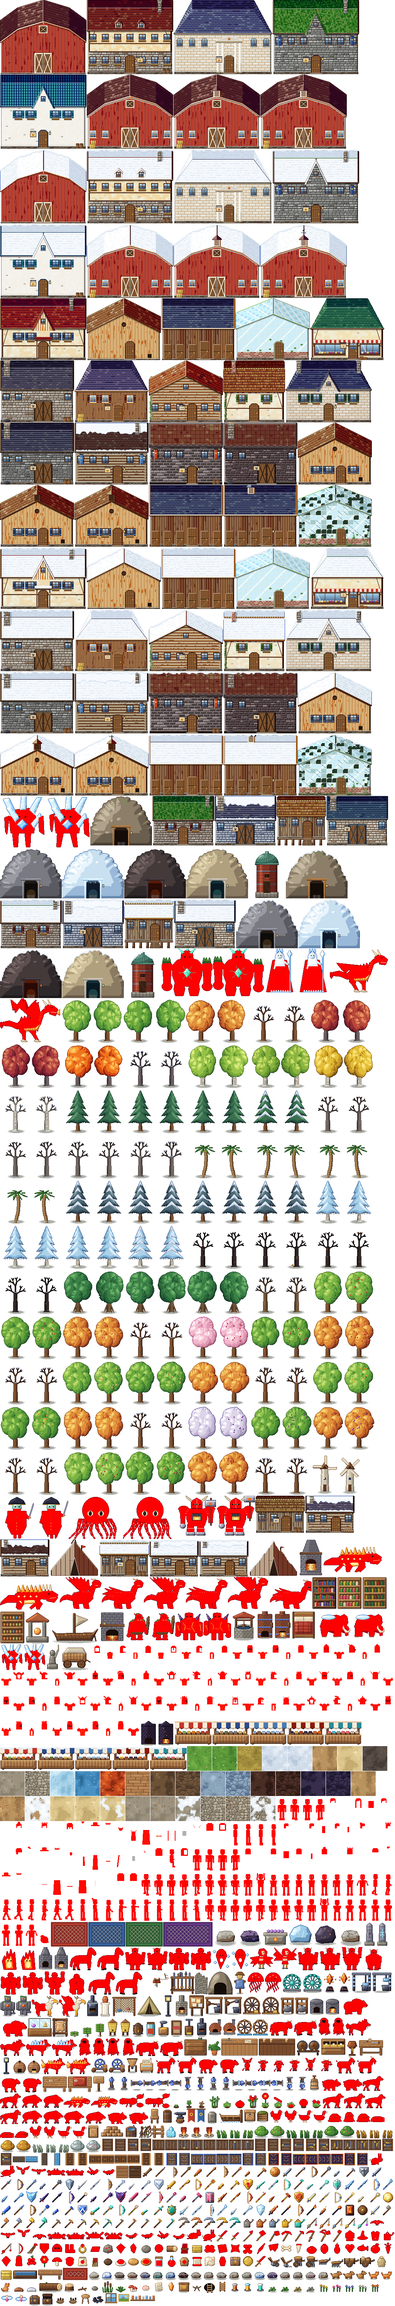
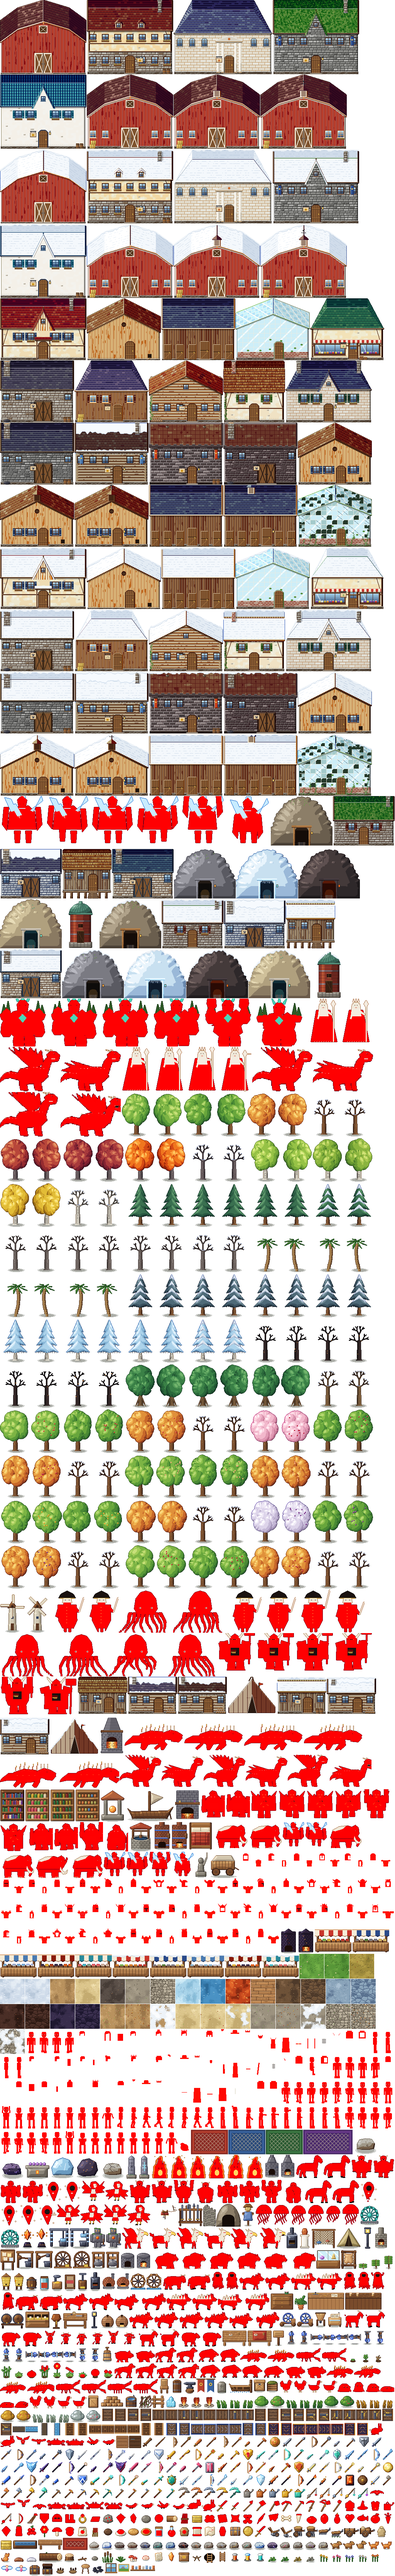
Hand-pixelled regional creatures and bosses with walk, wind-up and strike frames; fire elemental, ice crystals, the Stone Tyrant reworked

diff --git a/art/sprites/handdrawn.py b/art/sprites/handdrawn.py
@@ -5,13 +5,14 @@ Grid letters:  . empty
   1 2 3 4  body tones dark->light (ch 0, levels 0-3), placed by hand
   5 6 7 8  second-colour tones (ch 1, levels 0-3)
   E eye (swappable)  W white  N nose/claw black  T tooth  R red  O fire orange  Y fire yellow
+  G g pine greens  C crystal teal  I J ice light / ice shade
 Region letters are cel shaded flat (light on top edges, shadow on the bottom edges, base inside), like
 the characters; every hand-placed digit wins over that. A selective outline is added at the end.
 """
 from px import Canvas
 from sprites.creatures import C, EYE
 
-FIXED = {'E': EYE, 'W': '#f4ece0', 'N': '#1a1210', 'T': '#f0e8d8', 'R': '#d8342a', 'O': '#ff8a2a', 'Y': '#ffd860'}
+FIXED = {'E': EYE, 'W': '#f4ece0', 'N': '#1a1210', 'T': '#f0e8d8', 'R': '#d8342a', 'O': '#ff8a2a', 'Y': '#ffd860', 'G': '#2e5a26', 'g': '#5a8a3a', 'C': '#4ad8b8', 'I': '#c8ecff', 'J': '#7ab8e0'}
 
 
 def grid_sprite(rows, W, H):
@@ -800,3 +801,345 @@ def rabbit_f(step):
 
 for _n, _f in (('horse', horse_f), ('cow', cow_f), ('goat', goat_f), ('sheep', sheep_f), ('pig', pig_f), ('chicken', chicken_f), ('duck', duck_f), ('rabbit', rabbit_f)):
     register(_n, [(lambda f=_f, k=k: f(k)) for k in range(4)], prefix='an_')
+
+
+# ======================= regional creatures and bosses =======================
+def S(pts, k=1, dx=0, dy=0):
+    """Scale hand-picked points (designed small) by k and shift them: crisp at any size."""
+    return [(round(x * k + dx), round(y * k + dy)) for x, y in pts]
+
+
+def SD(det, k=1, dx=0, dy=0):
+    return [(round(y * k + dy), round(x * k + dx), px) for y, x, px in det]
+
+
+POSE = {'walk': (0, 0), 'wind': (-2, 2), 'strike': (3, 0)}
+
+
+def beast(W, H, k, step, pose, legs, back, top, front, det, wt=1, wb=1, hoof='N', hh=2, oy=0):
+    """A four-legged creature from designed points (scaled by k): pose moves the body, legs stay planted."""
+    dx, dy = POSE[pose]
+    dx, dy = dx * k, dy * k
+    legs_k = [(hx * k + dx, hy * k + dy + oy, fx * k + dx * .3, a * k * wt, b * k * wb, kn * k) for hx, hy, fx, a, b, kn in legs]
+    tr = lambda shapes: [(S(p, k, dx, dy + oy), ch) for p, ch in shapes]
+    st = step if pose == 'walk' else 1
+    return quad(W, H, st, tr(back), tr(front), legs_k, tr(top), SD(det, k, dx, dy + oy), hoof=hoof, hh=hh)
+
+
+# canine (designed in a 54x40 frame): wargs, the frost warg, the fire hound
+def canine(W, H, k, step, pose, extra=None, jaw_open=False):
+    legs = [(14, 26, 12, 4, 2, -2), (36, 26, 37, 3.5, 2, 1), (12, 25, 11, 5, 2, -2), (34, 26, 34, 4, 2, 1)]
+    tail = [([(10, 18), (4, 14), (1, 18), (3, 26), (9, 24)], 'm')]
+    body = [([(9, 18), (16, 15), (30, 16), (40, 14), (44, 20), (41, 28), (33, 30), (20, 26), (12, 27)], 'b'),
+            ([(26, 15), (30, 9), (34, 13), (37, 7), (40, 12), (44, 15), (43, 27), (36, 26)], 'm'),
+            ([(38, 12), (44, 9), (48, 13), (53, 17), (52, 20), (46, 21), (40, 19)], 'b')]
+    ears = [([(40, 11), (41, 3), (44, 10)], 'b'), ([(43, 10), (45, 3), (46, 10)], 'b')]
+    det = [(13, 44, 'WE'), (17, 53, 'N'), (20, 47, '1111'), (21, 48, 'T'), (21, 50, 'T'), (16, 34, '44'), (17, 35, '4'), (19, 20, '2'), (20, 21, '2'), (19, 28, '2'), (20, 29, '2')]
+    if jaw_open:
+        det += [(20, 46, '1NNNNN1'), (21, 46, 'TbTbTb'), (22, 47, 'bbbb')]
+    if extra:
+        b2, d2 = extra
+        body += b2; det += d2
+    return beast(W, H, k, step, pose, legs, tail, body, ears, det, oy=H - 40 * k)
+
+
+def warg_f(step, pose='walk', ice=False):
+    ex = None
+    if ice:
+        ex = ([([(x, 17), (x + 3, 7 - (x // 6) % 2 * 3), (x + 6, 17)], 'T') for x in range(12, 38, 6)], [])
+    return canine(66, 48, 1.2, step, pose, ex, pose == 'strike')
+
+
+def hound_f(step, pose='walk'):
+    fl = step % 2
+    ex = ([([(x, 17), (x + 3, 17 - (8 + (i * 7 + fl * 3 * (i % 2)) % 7)), (x + 6, 17)], 'b') for i, x in enumerate(range(14, 42, 5))],
+          [(17 - (8 + (i * 7 + fl * 3 * (i % 2)) % 7) + 2, x + 3, 'Y') for i, x in enumerate(range(14, 42, 5))] + [(15, x, 'O') for x in range(16, 42, 5)] + [(13, 44, 'YY')])
+    return canine(64, 46, 1.15, step, pose, ex, pose == 'strike')
+
+
+def bear_f(step, pose='walk'):
+    legs = [(24, 34, 23, 9, 7, -1), (50, 34, 51, 8, 7, 1), (19, 34, 19, 10, 8, 0), (46, 34, 46, 10, 8, 0)]
+    body = [([(10, 30), (16, 20), (30, 17), (42, 10), (54, 14), (58, 26), (54, 40), (40, 44), (16, 42)], 'b'), ([(30, 14), (40, 10), (52, 14), (52, 24), (34, 22)], 'm')]
+    head = [([(52, 20), (58, 16), (64, 19), (69, 26), (66, 31), (57, 31), (52, 28)], 'b'), ([(53, 16), (55, 13), (58, 16)], 'b'), ([(59, 16), (61, 13), (63, 17)], 'b')]
+    det = [(21, 60, 'WE'), (26, 67, 'NN'), (30, 60, 'TTTTT'), (20, 22, '44'), (19, 28, '444'), (24, 16, '2'), (25, 17, '2'), (30, 26, '2'), (31, 27, '2'), (34, 36, '2'), (35, 37, '2')]
+    if pose == 'strike':
+        det += [(29, 58, '1NNNNNN'), (30, 59, 'TbTbT')]
+    return beast(70, 52, 1, step, pose, legs, [], body + head, [], det, hoof='T', hh=1)
+
+
+def mammoth_f(step, pose='walk'):
+    legs = [(24, 44, 24, 10, 9, 0), (58, 44, 58, 10, 9, 0), (18, 44, 18, 11, 10, 0), (52, 44, 52, 11, 10, 0)]
+    body = [([(8, 40), (14, 22), (34, 12), (54, 10), (70, 16), (76, 34), (72, 50), (16, 52)], 'b'),
+            ([(12, 22), (30, 12), (48, 10), (40, 18), (20, 24)], 'T')]   # snow on its back
+    trunk_up = pose == 'wind'
+    head = [([(62, 14), (72, 8), (80, 14), (82, 30), (76, 40), (66, 36)], 'b'), ([(60, 18), (66, 16), (68, 32), (62, 34)], 'm')]
+    trunk = ([(76, 34), (84, 28), (88, 16), (86, 12), (82, 22), (74, 28)], 'b') if trunk_up else ([(76, 34), (84, 44), (82, 58), (78, 64), (75, 62), (77, 54), (76, 44), (70, 38)], 'b')
+    tusk = ([(70, 36), (74, 46), (82, 52), (88, 44), (86, 54), (76, 56), (68, 44)], 'T')
+    det = [(22, 72, 'WE'), (41, 12, 'mmmmmmmmmmmmmmmmmmmmmmmmmmmmmmmmmmmmmmmmmmmmmmmmmmmmmmmm'), (42, 13, 'm.m.m.m.m.m.m.m.m.m.m.m.m.m.m.m.m.m.m.m.m.m.m.m.m.m.m.m'),
+           (43, 14, 'm..m..m..m..m..m..m..m..m..m..m..m..m..m..m..m..m..m..m'), (24, 30, '44'), (22, 40, '444'), (30, 50, '2'), (31, 51, '2')]
+    return beast(88, 68, 1, step, pose, legs, [], body + head + [trunk], [tusk], det, hoof='T', hh=1)
+
+
+def griffin_f(step, pose='walk'):
+    legs = [(16, 36, 15, 6, 3, -2), (44, 36, 45, 3, 2, 1), (20, 36, 20, 7, 4, -2), (46, 36, 46, 3.5, 2, 1)]
+    wing_up = step % 2 == 0 or pose == 'wind'
+    wing = ([(22, 28), (6, 2), (16, 6), (24, 3), (32, 8), (42, 26)], 'm') if wing_up else ([(22, 28), (2, 22), (12, 18), (14, 30), (26, 24), (42, 28)], 'm')
+    body = [([(10, 30), (16, 24), (30, 23), (40, 24), (52, 26), (52, 38), (38, 42), (18, 41), (10, 36)], 'b'), ([(38, 22), (48, 20), (54, 28), (50, 40), (40, 38)], 'T')]
+    head = [([(44, 22), (46, 12), (52, 8), (58, 10), (60, 18), (54, 24)], 'T'), ([(58, 12), (66, 14), (69, 19), (67, 23), (64, 19), (58, 19)], 'Y'), ([(46, 12), (40, 4), (48, 10), (47, 2), (51, 9)], 'T')]
+    tail = [([(12, 28), (4, 20), (2, 16), (6, 16), (8, 22), (13, 26)], 'b')]
+    det = [(13, 54, 'WE'), (21, 66, 'N'), (14, 51, '111111'), (26, 20, '44'), (25, 26, '444'), (32, 30, '2'), (33, 31, '2')]
+    if pose == 'strike':
+        det += [(20, 59, '1NNNN'), (21, 59, 'NNN')]
+    return beast(70, 56, 1, step, pose, legs, tail, body + head, [wing], det, hoof='N', hh=1)
+
+
+def lizard(W, H, k, step, pose, crown=False):
+    """Salamanders and the Ash Mother (designed 70x40, scaled by k): sprawled legs, a ridge of flame."""
+    dx, dy = [(0, 0), (-2, 1), (3, 0)][['walk', 'wind', 'strike'].index(pose)]
+    st = [3, -3, 3, -3][step] if pose == 'walk' else 0
+    shp = []
+    for x, d in ((22, 1), (44, -1)):
+        shp.append(([(x, 26), (x + 4, 26), (x + 2 + st * d, 33), (x - 4 + st * d, 38), (x - 6 + st * d, 36), (x - 2, 30)], 'd'))
+    shp.append(([(22, 22), (10, 22), (2, 28 + st // 2), (0, 32 + st // 2), (8, 30), (22, 30)], 'b'))
+    shp.append(([(18 + dx, 20 + dy), (30 + dx, 16 + dy), (44 + dx, 17 + dy), (50 + dx, 22 + dy), (46 + dx, 30 + dy), (24 + dx, 31 + dy), (16, 27)], 'b'))
+    shp.append(([(22 + dx, 28 + dy), (44 + dx, 27 + dy), (42 + dx, 31 + dy), (26 + dx, 32 + dy)], 'm'))
+    for x, d in ((26, -1), (42, 1)):
+        shp.append(([(x - 2, 26), (x + 3, 26), (x + 5 + st * d, 32), (x + 1 + st * d, 38), (x - 2 + st * d, 38), (x, 31)], 'b'))
+    open_ = pose == 'strike'
+    shp.append(([(46 + dx, 18 + dy), (54 + dx, 15 + dy), (62 + dx, 17 + dy), (68 + dx, 21 + dy), (67 + dx, 25 + dy), (58 + dx, 27 + dy), (48 + dx, 26 + dy)], 'b'))
+    shp.append(([(56 + dx, 25 + dy), (68 + dx, 24 + dy + (4 if open_ else 0)), (64 + dx, 29 + dy + (4 if open_ else 0)), (55 + dx, 28 + dy)], 'b'))
+    g = polygrid(W, H, [(S(p, k), ch) for p, ch in shp])
+    det = [(19 + dy, 57 + dx, 'EE')]
+    for i, x in enumerate(range(20, 48, 5)):
+        h = 6 + (i + step) % 3 * 2
+        for r in range(h):
+            det.append((17 + dy - r, x + dx + (1 if r > h // 2 else 0), 'O' if r < h - 2 else 'Y'))
+    det += [(23 + dy, x + dx, 'Y') for x in range(22, 46, 7)]
+    if crown:
+        det += [(16 + dy - r, x + dx, 'T') for x in (50, 54, 58) for r in range(7)]
+    det = SD(det, k)
+    return grid_sprite(with_detail(g, det, W), W, H)
+
+
+def lobster_f(step, pose='walk'):
+    o = 2 if pose == 'strike' else -2 if pose == 'wind' else 0
+    g = polygrid(66, 40, [([(4, 18), (12, 14), (12, 30), (4, 28)], 'm'), ([(10, 16), (30, 14), (46, 16), (48, 26), (30, 30), (10, 28)], 'b'),
+                          ([(44, 18), (54, 10 - o), (62, 8 - o), (64, 12 - o), (56, 16 - o), (48, 22)], 'b'), ([(44, 24), (54, 32 + o), (62, 34 + o), (64, 30 + o), (56, 28 + o), (48, 26)], 'b'),
+                          ([(60, 6 - o), (66, 4 - o), (64, 10 - o)], 'm'), ([(60, 36 + o), (66, 38 + o), (64, 32 + o)], 'm')])
+    det = [(18, 46, 'WE')] + [(r, c, '1') for c in (16, 22, 28, 34) for r in range(15, 29)] + [(15, 20, '444'), (16, 30, '44')]
+    for i in range(4):
+        x = 20 + i * 6; s = (2 if (i + step) % 2 else -2) if pose == 'walk' else 0
+        det += [(29 + r, x + s * r // 8, 'm') for r in range(9)]
+    det += [(17 - r, 47 + r * 2, 'm') for r in range(8)]
+    return grid_sprite(with_detail(g, det, 66), 66, 40)
+
+
+def jelly_f(step, pose='walk'):
+    pulse = [0, 1, 2, 1][step] if pose == 'walk' else 3 if pose == 'wind' else -1
+    bell = {(x, y) for x in range(2, 42) for y in range(2 + pulse, 26) if ((x + .5 - 22) / (20 - pulse)) ** 2 + ((y - 24) / (21 - pulse)) ** 2 <= 1}
+    rows = [['.'] * 44 for _ in range(58)]
+    for x, y in bell:
+        rows[y][x] = 'b'
+    for i, x in enumerate(range(8, 38, 5)):
+        for y in range(25, 54 - (i % 3) * 4 - (6 if pose == 'wind' else 0)):
+            xx = x + round(__import__('math').sin(y * .3 + i + step * 1.5) * 2) + (2 if pose == 'strike' else 0)
+            if 0 <= xx < 44:
+                rows[y][xx] = 'm' if y % 4 else '6'
+    g = [''.join(r) for r in rows]
+    det = [(10 + pulse, 13, '44'), (9 + pulse, 15, '44'), (12 + pulse, 12, '4'), (17, 17, 'E'), (17, 26, 'E'), (18, 17, 'E'), (18, 26, 'E'), (20, 20, '2222')]
+    return grid_sprite(with_detail(g, det, 44), 44, 58)
+
+
+def wisp_f(step, pose='walk'):
+    import math
+    sway = [2, 0, -2, 0][step]
+    rows = [['.'] * 48 for _ in range(60)]
+    for y in range(4, 58):
+        for x in range(4, 44):
+            head = y < 24 and ((x + .5 - 24) / 13) ** 2 + ((y - 22) / 17) ** 2 <= 1
+            tail = 24 <= y < 56 and abs(x + .5 - 24 - sway * (y - 24) / 30) < 13 - (y - 24) * .4 and ((x // 4 + y // 6 + step) % 5 or y < 44)
+            if head or tail:
+                rows[y][x] = 'b'
+    g = [''.join(r) for r in rows]
+    det = [(y, x, 'N') for y in range(14, 28) for x in range(17, 31) if ((x - 24) / 7) ** 2 + ((y - 21) / 7) ** 2 <= 1]
+    det += [(20, 20, 'EE'), (20, 26, 'EE'), (21, 20, 'E'), (21, 27, 'E'), (33, 22, 'WWW'), (34, 21, 'WWWWW'), (35, 22, 'WWW')]
+    for i, (x, y) in enumerate(((6, 14), (42, 22), (8, 42), (40, 48))):
+        y += (2 if (i + step) % 2 else -2) - (6 if pose == 'wind' else 0)
+        det += [(y - 1, x, 'W'), (y, x - 1, 'WWW'), (y + 1, x, 'W')]
+    if pose == 'strike':
+        det += [(28, 34, 'WWWWWWWWWWWWW'), (29, 36, 'WWWWWWWWWWW')]
+    return grid_sprite(with_detail(g, det, 48), 48, 60)
+
+
+def upright(W, H, k, step, pose, P):
+    """Something that stands upright (designed in a 56x60 frame, scaled by k): stone, crystal, troll, giants.
+    P: dict of shapes for 'legs', 'torso', 'arm' (left, mirrored), 'head', plus 'det' and optional 'weapon'."""
+    sw = [0, 2, 0, -2][step] if pose == 'walk' else 0
+    lift = [0, 2, 0, 2][step] if pose == 'walk' else 0
+    ay = {'walk': 0, 'wind': -16, 'strike': 10}[pose]; by = {'walk': 0, 'wind': 0, 'strike': 3}[pose]
+    shapes = []
+    for i, x in enumerate((17, 31)):
+        up = lift if (i == 0) == (step == 1) and step in (1, 3) else 0
+        shapes.append((S(P['leg'], k, x * k, (44 - up) * k), 'b' if i else 'd'))
+    shapes += [(S(p, k, 8 * k, (16 + by) * k), ch) for p, ch in P['torso']]
+    for side, x in ((-1, 3), (1, 45)):
+        pts = P['arm'] if side < 0 else [(8 - px, py) for px, py in P['arm']]
+        shapes.append((S(pts, k, x * k + (6 if pose == 'strike' else 0) * k * -side, (14 + ay + sw * side) * k), 'b'))
+    shapes += [(S(p, k, 20 * k, (3 + by) * k), ch) for p, ch in P['head']]
+    if P.get('weapon'):
+        shapes += [(S(p, k, 0, (ay if pose != 'walk' else sw) * k), ch) for p, ch in P['weapon']]
+    g = polygrid(W, H, shapes)
+    return grid_sprite(with_detail(g, SD(P['det'], k, 0, by * k), W), W, H)
+
+
+BASALT = {'leg': [(0, 0), (10, 0), (11, 15), (-1, 15)], 'arm': [(1, 0), (9, 0), (10, 30), (0, 30)],
+          'torso': [([(4, 0), (8, -6), (12, 0), (16, -4), (20, 0), (24, -6), (28, 0), (32, -4), (36, 0), (40, 2), (38, 28), (2, 28), (0, 2)], 'b'),
+                    ([(-2, 2), (-6, -12), (6, 0)], 'm'), ([(42, 2), (46, -12), (34, 0)], 'm')],
+          'head': [([(0, 2), (8, -2), (16, 2), (16, 14), (0, 14)], 'b')],
+          'det': [(24, 30, 'EEEE'), (25, 27, 'E'), (26, 32, 'EE'), (28, 23, 'O'), (29, 22, 'O'), (30, 21, 'OO'), (31, 34, 'O'), (32, 35, 'O'), (33, 36, 'OO'), (36, 26, 'OOOO'),
+                  (19, 16, '1'), (19, 24, '1'), (19, 32, '1'), (19, 40, '1'), (11, 25, 'YY'), (11, 30, 'YY'), (16, 26, 'OOOOO')]}
+SHARD = {'leg': [(1, 0), (9, 0), (8, 15), (2, 15)], 'arm': [(2, 0), (8, 0), (6, 30), (0, 22)],
+         'torso': [([(4, 4), (12, -2), (28, -4), (36, 4), (38, 26), (2, 26)], 'b'), ([(6, 4), (-2, -14), (6, -12), (12, 2)], 'I'), ([(34, 4), (44, -16), (46, -10), (30, 2)], 'I'),
+                   ([(16, 0), (18, -18), (24, -18), (24, 0)], 'I'), ([(14, 10), (6, -4), (12, -6), (20, 8)], 'I')],
+         'head': [([(2, 2), (8, -4), (14, 2), (12, 12), (4, 12)], 'b')],
+         'det': [(24, 25, 'W'), (25, 24, 'WWW'), (26, 23, 'WWWWW'), (27, 24, 'WWW'), (28, 25, 'W'), (10, 25, 'E'), (10, 30, 'E'), (6, 22, 'W'), (2, 30, 'W'), (12, 14, 'W')]}
+TROLL = {'leg': [(0, 0), (10, 0), (12, 12), (12, 16), (-2, 16), (0, 10)], 'arm': [(2, 0), (8, 0), (10, 30), (12, 34), (2, 36), (0, 30)],
+         'torso': [([(6, 2), (18, -4), (34, 0), (40, 12), (40, 26), (30, 30), (8, 30), (0, 20)], 'b'), ([(10, 14), (30, 14), (32, 28), (8, 28)], 'm'), ([(6, 26), (36, 26), (34, 32), (8, 32)], 'd')],
+         'head': [([(0, 6), (6, 0), (14, 2), (17, 8), (14, 16), (4, 16)], 'b'), ([(12, 7), (18, 10), (16, 14), (12, 12)], 'b')],
+         'weapon': [([(48, 58), (51, 16), (56, 10), (58, 18), (53, 58)], 'm')],
+         'det': [(8, 23, 'E'), (8, 30, 'E'), (6, 22, '11111111111'), (17, 23, 'T'), (17, 31, 'T'), (16, 23, 'T'), (16, 31, 'T'), (22, 14, 'mm'), (21, 16, 'mm'), (20, 40, 'mm'),
+                 (24, 52, 'T'), (30, 53, 'T'), (18, 54, 'T')]}
+GIANT_ROCK = {'leg': [(0, 2), (6, 0), (12, 2), (13, 10), (12, 16), (0, 16), (-1, 9)],
+              'arm': [(0, 2), (5, -2), (10, 1), (11, 12), (8, 15), (11, 20), (12, 28), (9, 33), (1, 33), (-2, 28), (-1, 18), (1, 14), (-1, 8)],
+              'torso': [([(2, 6), (8, 0), (18, -2), (24, 2), (30, -2), (38, 4), (40, 14), (36, 18), (4, 18), (0, 14)], 'b'),
+                        ([(4, 17), (20, 16), (36, 17), (38, 26), (30, 31), (10, 31), (2, 25)], 'b'),
+                        ([(-8, 4), (-2, -2), (6, 2), (4, 10), (-6, 10)], 'm'), ([(48, 4), (42, -2), (34, 2), (36, 10), (46, 10)], 'm'),
+                        ([(-6, 2), (-3, -10), (0, 2)], 'G'), ([(-1, 1), (2, -14), (5, 1)], 'G'), ([(36, 1), (39, -14), (42, 1)], 'G'), ([(41, 2), (44, -9), (47, 2)], 'G'),
+                        ([(15, 8), (20, 3), (25, 8), (20, 14)], 'C')],
+              'head': [([(1, 4), (5, -1), (11, -1), (15, 4), (14, 13), (8, 15), (2, 13)], 'b'),
+                       ([(1, 1), (-2, -8), (4, 0)], 'C'), ([(6, -1), (8, -10), (10, -1)], 'C'), ([(12, 0), (18, -8), (15, 1)], 'C')],
+              'det': [(8, 24, 'EE'), (8, 31, 'EE'), (12, 25, '111111'), (19, 26, 'II'), (20, 27, 'I'), (33, 8, '1111111111111111111111111111111111'),
+                      (17, 4, 'g'), (14, 6, 'g'), (11, 7, 'g'), (17, 49, 'g'), (14, 50, 'g'), (11, 51, 'g'), (24, 14, '2'), (25, 15, '2'), (26, 16, '2'), (40, 36, '2'), (41, 37, '2'),
+                      (22, 20, '44'), (21, 22, '444'), (36, 40, '44')]}
+FORGE = {'leg': [(0, 0), (11, 0), (12, 13), (14, 16), (-2, 16), (-1, 13)], 'arm': [(1, 0), (9, 0), (10, 28), (0, 28)],
+         'torso': [([(0, 2), (40, 2), (38, 22), (34, 30), (6, 30), (2, 22)], 'b'), ([(-6, 0), (8, -4), (10, 8), (-4, 8)], 'm'), ([(46, 0), (32, -4), (30, 8), (44, 8)], 'm'),
+                   ([(13, 8), (27, 8), (27, 20), (13, 20)], 'N')],
+         'head': [([(0, 4), (8, -2), (16, 4), (16, 16), (0, 16)], 'm'), ([(0, 6), (-6, -2), (-7, -6), (-2, -1), (2, 4)], 'T'), ([(16, 6), (22, -2), (23, -6), (18, -1), (14, 4)], 'T')],
+         'weapon': [([(50, 50), (51, 4), (53, 4), (52, 50)], 'm'), ([(44, -6), (60, -6), (60, 4), (44, 4)], 'b')],
+         'det': [(10, 21, 'NNNNNNNNNNNNNN'), (10, 23, 'OO'), (10, 30, 'OO'), (30, 22, 'OOOOOOOOOOOOO'), (31, 22, 'YYYYYYYYYYYY'), (32, 24, 'OOOOOOOOO'),
+                 (27, 22, '1.1.1.1.1.1.1'), (28, 22, '1.1.1.1.1.1.1'), (29, 22, '1.1.1.1.1.1.1'), (-4, 50, 'OO')]}
+
+
+def queen_f(step, pose='walk'):
+    sway = [2, 0, -2, 0][step] if pose == 'walk' else 0
+    up = {'walk': 0, 'wind': -8, 'strike': 4}[pose]
+    g = polygrid(84, 116, [([(22, 30), (58, 30), (74 + sway, 112), (6 + sway, 112)], 'm'), ([(28, 44), (52, 44), (66, 112), (14, 112)], 'b'),
+                           ([(30, 28), (50, 28), (50, 46), (30, 46)], 'b'), ([(30, 30), (24, 52), (28, 54), (34, 34)], 'T'),
+                           ([(50, 30), (64, 40 + up), (62, 44 + up), (48, 36)], 'T'),
+                           ([(65, 112 + up), (65, 18 + up), (68, 18 + up), (68, 112 + up)], 'T'),
+                           ([(66, 4 + up), (72, 14 + up), (66, 24 + up), (60, 14 + up)], 'W'),
+                           ([(30, 14), (50, 14), (54, 46), (26, 46)], 'W'), ([(33, 10), (47, 10), (48, 24), (40, 28), (32, 24)], 'T'),
+                           ([(32, 10), (33, 0), (36, 9)], 'W'), ([(38, 9), (40, -2), (42, 9)], 'W'), ([(44, 9), (47, 0), (48, 10)], 'W')])
+    det = [(17, 36, 'EE'), (17, 42, 'EE'), (23, 38, 'RRRR')] + [(112 - r, x + r, 'W') for x in range(16, 66, 6) for r in range(3)]
+    if pose == 'strike':
+        det += [(14 + up, 72 + i * 2, 'WW') for i in range(5)]
+    return grid_sprite(with_detail(g, det, 84), 84, 116)
+
+
+def captain_f(step, pose='walk'):
+    sway = [3, 0, -3, 0][step] if pose == 'walk' else 0
+    up = {'walk': 0, 'wind': -10, 'strike': 6}[pose]
+    rows = [['.'] * 88 for _ in range(112)]
+    for y in range(40, 110):
+        for x in range(8, 80):
+            if abs(x + .5 - 44 - sway * (y - 40) / 70) < 24 - max(0, y - 80) * .5 and (y < 96 or (x // 6 + step) % 2 == 0 or y < 100):
+                rows[y][x] = 'b'
+    g = polygrid(88, 112, [([(22, 42), (14, 70), (20, 72), (28, 46)], 'b'), ([(64, 42), (76, 56 + up), (72, 60 + up), (60, 48)], 'b'),
+                           ([(74, 58 + up), (86, 20 + up * 2), (88, 22 + up * 2), (76, 60 + up)], 'W'),
+                           ([(34, 22), (54, 22), (56, 34), (50, 42), (38, 42), (32, 34)], 'T'), ([(34, 34), (54, 34), (50, 52), (44, 56), (38, 52)], 'm'),
+                           ([(22, 22), (66, 22), (60, 12), (44, 4), (28, 12)], 'N')])
+    g = overlay([''.join(r) for r in rows], g)
+    det = [(27, 38, 'EEE'), (27, 48, 'EEE'), (22, 24, 'YYYYYYYYYYYYYYYYYYYYYYYYYYYYYYYYYYYYYYYY'), (60, 24, '1111111111111111111111111111111111111111')] + [(y, 42, 'YY') for y in range(46, 90, 8)]
+    return grid_sprite(with_detail(g, det, 88), 88, 112)
+
+
+def kraken_f(step, pose='walk'):
+    import math
+    rows = [['.'] * 140 for _ in range(112)]
+    for i in range(8):
+        x0 = 30 + i * 11
+        lift = 20 if pose == 'wind' and i % 2 else 0
+        for kk in range(14):
+            t = kk / 13
+            x = x0 + math.sin(t * 4 + i + step * 1.2) * 10 * t + (i - 3.5) * 6 * t + (14 * t if pose == 'strike' else 0)
+            y = 60 + t * (50 - lift)
+            w = 4 - round(3 * t)
+            for d in range(-w, w + 1):
+                for yy in range(int(y), int(y) + 4):
+                    if 0 <= int(x + d) < 140 and yy < 112:
+                        rows[yy][int(x + d)] = 'm'
+    g = [''.join(r) for r in rows]
+    g = overlay(g, polygrid(140, 112, [([(40, 50), (44, 24), (56, 8), (70, 4), (84, 8), (96, 24), (100, 50), (92, 64), (48, 64)], 'b')]))
+    det = [(46, 54, 'WWWW'), (47, 53, 'WEEW'), (48, 53, 'WEEW'), (49, 54, 'WWWW'), (46, 84, 'WWWW'), (47, 83, 'WEEW'), (48, 83, 'WEEW'), (49, 84, 'WWWW'),
+           (20, 52, '44'), (14, 62, '444'), (12, 70, '44'), (30, 60, '2'), (31, 61, '2'), (28, 84, '2'), (29, 85, '2')]
+    return grid_sprite(with_detail(g, det, 140), 140, 112)
+
+
+def harpy_f(step, pose='walk'):
+    up = step % 2 == 0 if pose == 'walk' else pose == 'wind'
+    lw = [(24, 24), (2, 2), (8, 12), (0, 20), (8, 26), (2, 34), (26, 34)] if up else [(24, 24), (0, 28), (8, 34), (2, 42), (12, 42), (8, 50), (26, 36)]
+    rw = [(36, 24), (58, 4), (52, 14), (60, 20), (52, 26), (58, 32), (36, 34)] if up else [(36, 24), (60, 28), (52, 34), (58, 42), (48, 42), (52, 50), (34, 36)]
+    dy = 2 if pose == 'strike' else 0
+    g = polygrid(60, 60, [(lw, 'm'), ([(24, 36 + dy), (36, 36 + dy), (38, 44 + dy), (22, 44 + dy)], 'm'), ([(25, 24 + dy), (35, 24 + dy), (36, 36 + dy), (24, 36 + dy)], 'T'),
+                          ([(24, 6), (36, 4), (44, 12), (42, 30), (36, 22), (26, 24), (22, 16)], 'b'), ([(30, 10), (37, 10), (39, 16), (36, 21), (31, 20)], 'T'), (rw, 'm')])
+    det = [(13, 35, 'EE'), (18, 36, 'RR')] + [(44 + dy + r, x, 'Y') for x in (26, 34) for r in range(8)] + [(52 + dy, 24, 'NNN'), (52 + dy, 32, 'NNN')]
+    if pose == 'strike':
+        det += [(52 + dy, 22, 'NNNNN'), (53 + dy, 22, 'N...N')]
+    return grid_sprite(with_detail(g, det, 60), 60, 60)
+
+
+def drake_f(step, pose='walk'):
+    """The Cinder Drake: the dragon's design at 1.44x, with fire in its throat."""
+    import math
+    wing = 'up' if step % 2 == 0 else 'down'
+    base = dragon_frame(step, wing, {'walk': 'walk', 'wind': 'rear', 'strike': 'lunge'}[pose])
+    c = Canvas(156, 116)
+    big = base.img.resize((round(108 * 1.44), round(84 * 1.38)), 0)
+    c.paste(big, 0, 0)
+    return c
+
+
+def _reg(name, fn, poses=True):
+    register(name, [(lambda k=k: fn(k, 'walk')) for k in range(4)], [lambda: fn(0, 'wind'), lambda: fn(0, 'strike')] if poses else None)
+
+
+_reg('warg', warg_f); _reg('icewarg', lambda s, p: warg_f(s, p, True)); _reg('hound', hound_f); _reg('bear', bear_f)
+_reg('mammoth', mammoth_f); _reg('griffin', griffin_f)
+_reg('salamander', lambda s, p: lizard(70, 40, 1, s, p)); _reg('ashmother', lambda s, p: lizard(154, 88, 2.2, s, p, True))
+_reg('lobster', lobster_f); _reg('jelly', jelly_f); _reg('wisp', wisp_f); _reg('harpy', harpy_f)
+_reg('basalt', lambda s, p: upright(72, 76, 1.25, s, p, BASALT)); _reg('elemental', lambda s, p: flame_f(s, p))
+_reg('shardling', lambda s, p: upright(58, 68, 1.05, s, p, SHARD)); _reg('glacierheart', lambda s, p: upright(116, 136, 2.05, s, p, SHARD))
+_reg('troll', lambda s, p: upright(64, 76, 1.2, s, p, TROLL)); _reg('tyrant', lambda s, p: upright(132, 124, 2.1, s, p, GIANT_ROCK))
+_reg('forgeking', lambda s, p: upright(100, 104, 1.6, s, p, FORGE))
+_reg('queen', queen_f); _reg('captain', captain_f); _reg('kraken', kraken_f); _reg('drake', drake_f)
+
+
+def flame_f(step, pose='walk'):
+    """The fire elemental (48x62): a body of flame with a hot core; it flares up, then lashes forward."""
+    import math
+    rows = [['.'] * 48 for _ in range(62)]
+    grow = {'walk': 0, 'wind': -5, 'strike': 2}[pose]; lean = 3 if pose == 'strike' else 0
+    for y in range(4 + grow, 60):
+        t = (y - 4 - grow) / (56 - grow)
+        hw = 3 + 15 * math.sin(min(1, t * 1.15) * math.pi * .6) + (2 if y > 50 else 0)
+        for x in range(48):
+            cx = 24 + lean * (1 - t) + math.sin(y * .35 + step * 1.7) * 2 * (1 - t)
+            tongue = y < 26 and abs(x - 24) > 4 and (x + y // 3 + step) % 7 < 3
+            if abs(x + .5 - cx) < hw and not tongue:
+                rows[y][x] = 'O' if abs(x + .5 - cx) > hw - 3 else 'b'
+    g = [''.join(r) for r in rows]
+    det = [(y, x, 'Y') for y in range(36, 54) for x in range(18, 31) if ((x - 24) / 6) ** 2 + ((y - 46) / 8) ** 2 <= 1]
+    det += [(34 + (grow // 2), 19 + lean, 'NNN'), (34 + (grow // 2), 27 + lean, 'NNN'), (35 + (grow // 2), 20 + lean, 'N'), (35 + (grow // 2), 28 + lean, 'N')]
+    for i in range(5):
+        det.append(((2 + i * 5 + step * 3) % 20 + grow + 2, 10 + i * 7, 'Y'))
+    return grid_sprite(with_detail(g, det, 48), 48, 62)

diff --git a/CLAUDE.md b/CLAUDE.md
@@ -326,6 +326,7 @@ The rider uses a seated pose (`hb_ride_2` in `human.py`, `humanSpr(..., 'ride')`
 ## Gear and creature art (`public/js/x_gear.js`, `art/sprites/gear.py`, `armor.py`, `farm_animals.py`, `foes.py`, `foes2.py`)
 - Every tier has its own weapon, shield and tool icons (`gi_<item>`, `gi_tool_<kind>_<level>`), used in the hotbar, bag and hand. Helmets (`hb_helm_<tier>_<d>`, full head, accent in the plume channel) and cuirasses (`hb_arm_<tier>_<d>`, new channels `armor` and `trim`) are drawn on the character; `GEAR_ACC` holds each tier's accent.
 - Farm animals and the horse, the Hollow Vale creatures and the regional ones are redrawn with the same sizes and channels; `art/preview_creatures.py` and `art/preview_armor.py` render preview sheets to `art/out/`.
+- **Hand-pixelled creatures** (`art/sprites/handdrawn.py`, overrides the earlier modules): every animal, enemy and boss is drawn from hand-placed pixel grids and hand-picked outlines with flat cel shading (`grid_sprite`; letters b/m/d are regions, digits and E/W/N/T/R/O/Y/G/g/C/I/J are placed colours). Each has 4 walk frames (`an_<sp>.0-3`, `en_<art>.0-3`) and enemies a wind-up and a strike (`en_<art>_atk.0/.1`). `x_creatureanim.js` picks frames (`animFrames`, `enemyFrame`: wind-up while `e.wind`/`e.tele2`, strike while `e.lunge`). Preview with `art/preview_hand.py [names]` -> `art/out/hand.png`.
  in `public/js/l_pack.js`)
 - `S.pack` is the backpack: 28 slots of `{ k, n }` (k = item key, `id` or `id#quality`). Weapons, armour and rings take one slot each; everything else stacks in one slot (`SINGLE` set). `S.inv` is a read-only view (key -> total) so older code keeps reading it; all writes go through `give` / `take` / `takeK`.
 - A full backpack never deletes items: `give` drops the rest on the ground, and ground pickups stay put until there's room.
